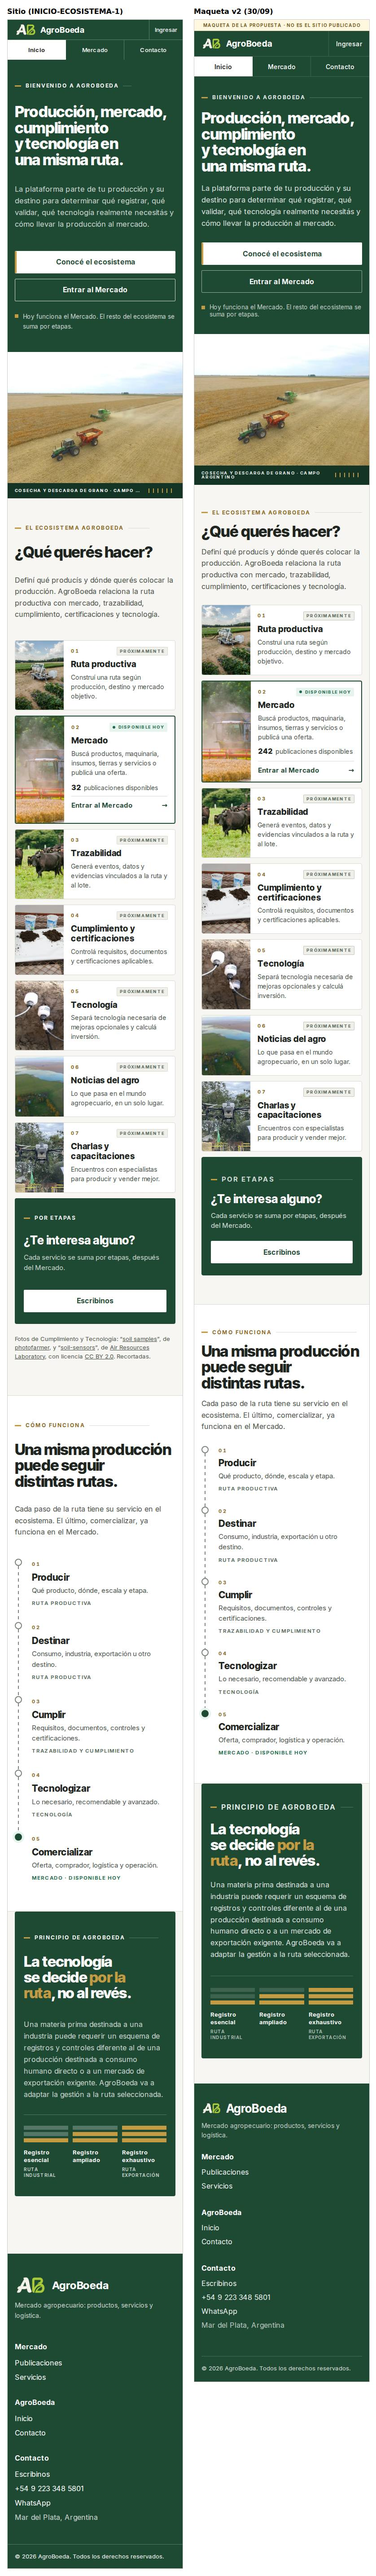
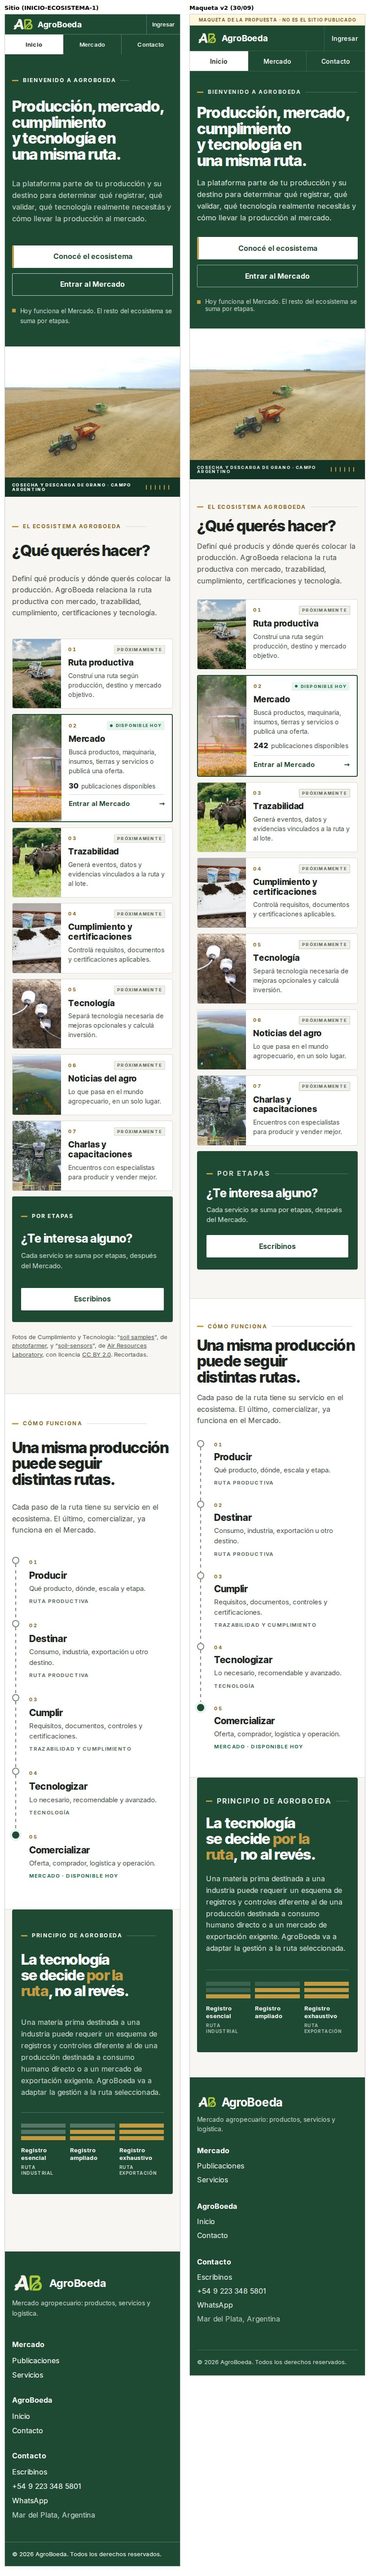
INICIO-ECOSISTEMA-1: en 390 la banda de la portada se parte, como en la maqueta
Era el único texto de Inicio que no entraba en 390: «Cosecha y descarga de
grano · Campo argentino» se cortaba con puntos suspensivos (344 px en 282).
La maqueta lo parte en dos líneas. La captura de 390 se rehízo.

Claude-Session: https://claude.ai/code/session_01EBGBt6WEC1sHq4FZkGg2Zr

Changed region(s): [[0.0, 0.0, 0.9928, 0.9998]]

diff --git a/src/components/Pages/HomePage.module.css b/src/components/Pages/HomePage.module.css
@@ -695,9 +695,12 @@
     padding: 12px var(--tg-gutter-mobile);
   }
 
+  /* En 390 la banda no entra en una línea: se parte, como en la maqueta, en
+     vez de cortarse con puntos suspensivos. */
   .fotoBanda span {
     font-size: 9.5px;
     letter-spacing: 0.14em;
+    white-space: normal;
   }
 
   .fotoBanda i {
